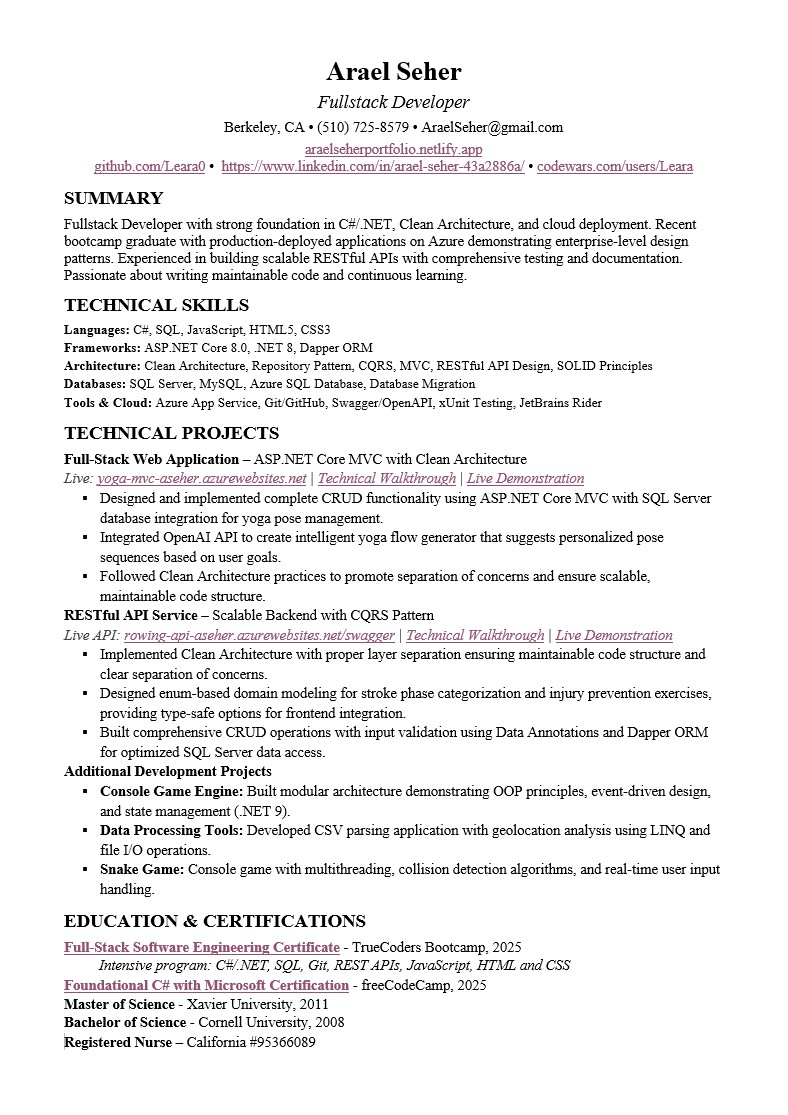
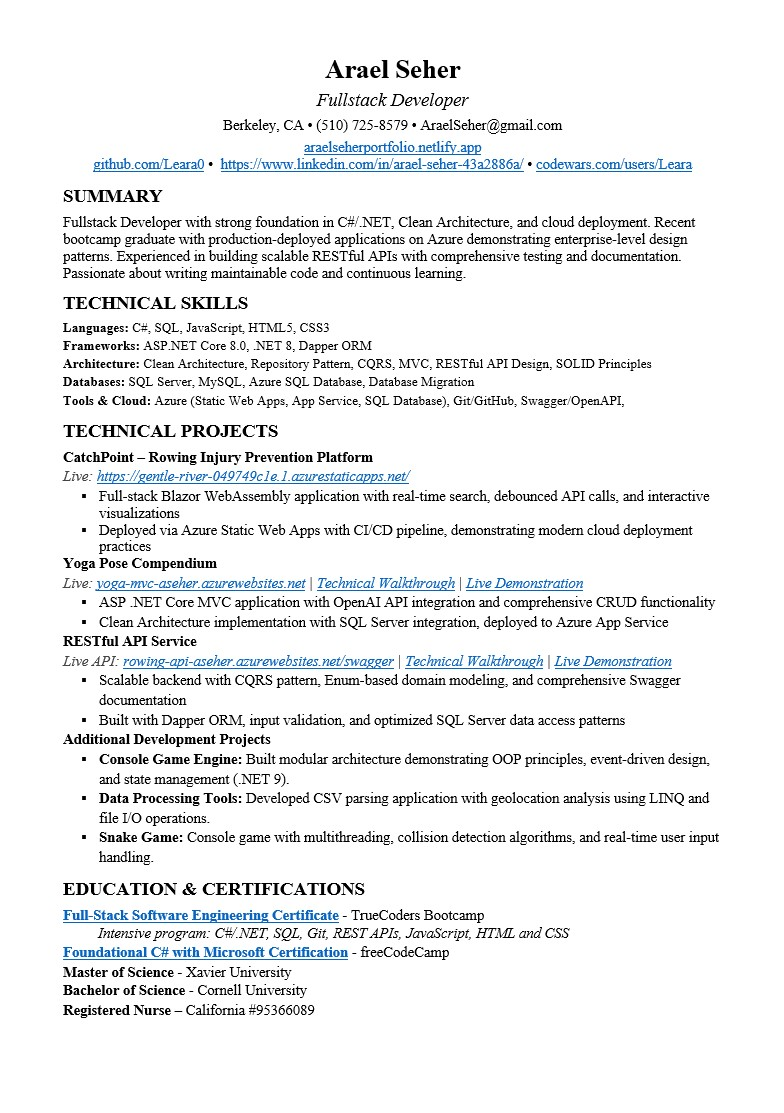
Added CatchPoint and updated attached resume

Changed region(s): [[0.0612, 0.0305, 0.9184, 0.947]]

diff --git a/CatchPoint.html b/CatchPoint.html
@@ -1,0 +1,84 @@
+<!DOCTYPE html>
+<html lang="en">
+<head>
+    <meta charset="UTF-8">
+    <meta name="viewport" content="width=device-width, initial-scale=1.0">
+    <title>CatchPoint</title>
+    <link rel="stylesheet" href="css/BasicStyling.css">
+    <link rel="stylesheet" href="css/Details.css">
+</head>
+<body>
+    <section id="site-wrapper">
+        <header class="box">
+            <nav>
+                <ul>
+                    <li><a href="Index.html">Home</a></li>
+                </ul>
+            </nav>
+        </header>
+        <section class="box">
+            <h2>CatchPoint | Full-Stack Blazor WebAssembly Injury Prevention Platform</h2>
+            <p>
+                A comprehensive rowing injury prevention application built with Blazor WebAssembly and .NET API. 
+                This full-stack platform features interactive visualizations, real-time search capabilities, and 
+                educational resources designed to help rowers understand injury prevention and proper technique.
+            </p>
+            <section class="button-section" id="space-below-buttons">
+                <button>
+                    <a href="https://gentle-river-049749c1e.1.azurestaticapps.net">Live Deployment</a>
+                </button>
+            </section>
+            <img src="images/CatchPoint.jpg" alt="CatchPoint Application Screenshot" width="600px">
+            
+            <h4>Technical Highlights</h4>
+            <p>
+                The application demonstrates modern full-stack development with Blazor WebAssembly for the frontend 
+                and ASP.NET Core API for the backend. The frontend utilizes component-based architecture with 
+                scoped CSS, state management for real-time interactions, and debounced HTTP calls for optimal 
+                performance. The backend follows Clean Architecture principles with the same domain-driven design 
+                used in the original Rowing API.
+            </p>
+            <p>
+                A significant technical challenge was implementing real-time search with proper debouncing across 
+                multiple data sources. I solved this by creating a unified search interface that simultaneously 
+                queries both exercise and drill endpoints, using a 300ms timer that cancels previous requests when 
+                users continue typing. This provides instant feedback while preventing excessive API calls and 
+                maintaining smooth user experience.
+            </p>
+            
+            <h4>Features</h4>
+            <ul>
+                <li>
+                    <strong>Interactive Body Map:</strong> Click-based hotspot visualization showing common injury 
+                    areas with detailed prevention strategies, strengthening exercises, and critical stroke phase 
+                    information
+                </li>
+                <li>
+                    <strong>Real-Time Search:</strong> Debounced search functionality across training exercises 
+                    and technique drills with field-specific filtering and enum-based API design
+                </li>
+                <li>
+                    <strong>Stroke Phase Visualization:</strong> Interactive circular interface displaying the 
+                    four rowing phases with detailed modal popups containing technique guidance and imagery
+                </li>
+                <li>
+                    <strong>Training Library:</strong> Comprehensive exercise and drill database with modal-based 
+                    detailed views, text truncation, and responsive card layouts
+                </li>
+            </ul>
+            <p>
+                The project showcases modern deployment practices using Azure Static Web Apps with automated CI/CD 
+                from GitHub, CORS configuration for cross-origin requests, and proper environment-based configuration 
+                management for seamless local development and production deployment.
+            </p>
+            <p>
+                <strong>Technologies:</strong> Blazor WebAssembly, ASP.NET Core API, C#, Azure Static Web Apps, 
+                Dapper ORM, SQL Server, GitHub Actions CI/CD
+            </p>
+        </section>
+    </section>
+    <footer>
+        <p>&copy; 2025 Arael Seher</p>
+    </footer>
+</body>
+</html>

diff --git a/Index.html b/Index.html
@@ -25,6 +25,20 @@
                 <section id="projects" class = "box">
                     <h2>Projects</h2>
                     <article>
+                        <h3>CatchPoint | Blazor WebAssembly Application</h3>
+                        <p>A comprehensive rowing injury prevention application built with Blazor WebAssembly and .NET API. 
+                            Features interactive body map visualization, real-time search with debouncing, stroke phase analysis, and training library management with modal-based user interactions.</p>
+                        <div class="button-section">
+                            <button>
+                                <a href="https://github.com/Leara0/Rowing">CatchPoint on GitHub</a>
+                            </button>
+                            <button>
+                                <a href="CatchPoint.html">More info</a>
+                            </button>
+                        </div>
+                    </article>
+
+                    <article>
                         <h3>Yoga Compendium | Clean Architecture Model View Controller Program</h3>
                         <p>A full-stack web application using ASP.NET Core MVC for a comprehensive yoga pose management system. 
                             The application follows Clean Architecture principles and MVC patterns to support modular, maintainable design.</p>
